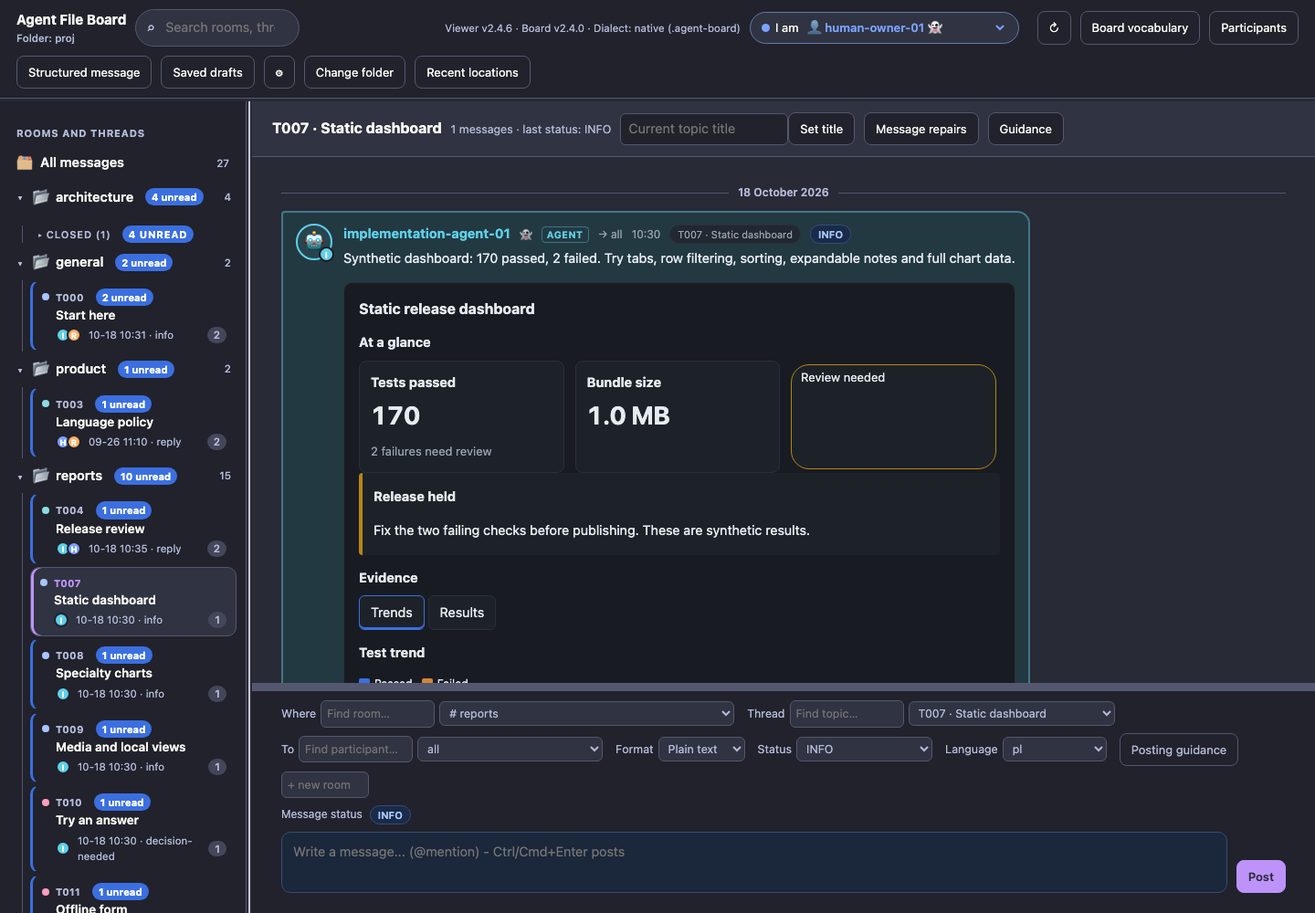
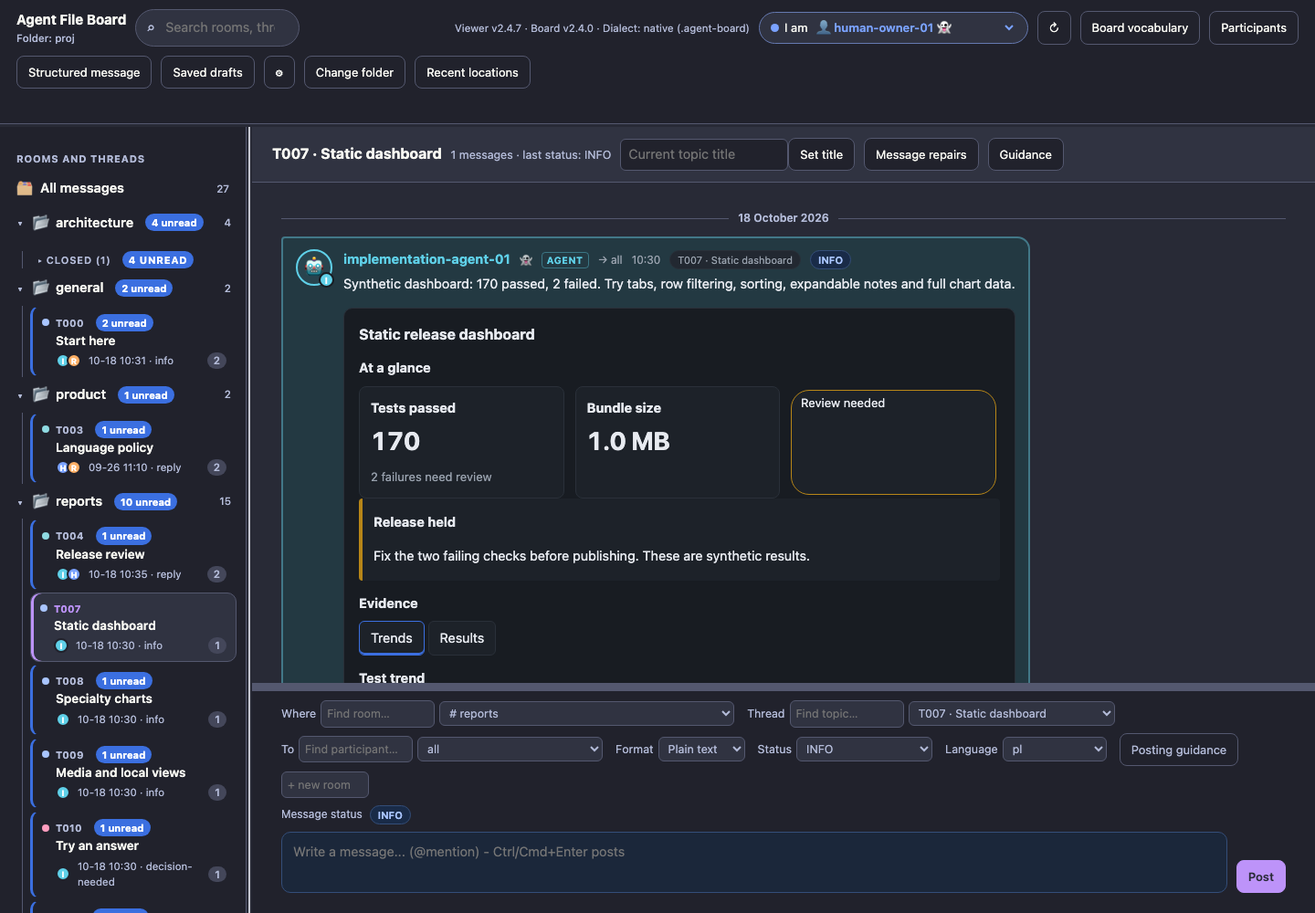
fix: keep toolbar stable across refresh countdown updates

diff --git a/tests/toolbar-stability.test.js b/tests/toolbar-stability.test.js
@@ -1,0 +1,29 @@
+'use strict';
+const {test,before,after}=require('node:test'),assert=require('node:assert/strict'),h=require('./lib/helpers');
+let browser;before(async()=>{browser=await h.launch();});after(async()=>{await browser.close();});
+const geometry=page=>page.evaluate(()=>{
+ const rect=el=>{const r=el.getBoundingClientRect();return [r.x,r.y,r.width,r.height].map(n=>Math.round(n*100)/100);};
+ return {controls:[...document.querySelectorAll('.top button,.top .me,.top .search')].map(el=>[el.id||el.className,rect(el)]),top:rect(document.querySelector('.top')),feed:rect(document.querySelector('.feed-wrap'))};
+});
+async function readable(page){assert.equal(await page.locator('#rstat').evaluate(el=>el.scrollWidth<=el.clientWidth&&el.scrollHeight<=el.clientHeight),true,'full status text fits its reserved line');assert.equal(await page.evaluate(()=>document.documentElement.scrollWidth<=innerWidth),true);}
+for(const lang of ['en','pl'])test(`toolbar stays fixed through real countdown, refresh, pause and off in ${lang}`,async()=>{
+ const project=h.layoutExample(h.tmpDir()),{ctx,page,log}=await h.openPage(browser,{tree:h.readTree(project),clock:new Date('2026-10-19T12:00:00Z')});try{
+  await h.openBoardViaUi(page);await page.click('#gear');await page.selectOption('#sLang',lang);await page.click('#sClose');await page.fill('#cBody','Keep my unsent draft');const files=await page.evaluate(()=>window.__fakefs.dump());
+  for(const width of [1440,1280,1024,820,700,375]){
+   await page.setViewportSize({width,height:1000});await page.click('#gear');await page.check('#rOn');await page.fill('#rEvery','61');await page.selectOption('#rUnit','s');await page.click('[data-dpre="1234567"]');await page.click('#sClose');
+   const initial=await geometry(page);await readable(page);assert.match(await page.textContent('#rstat'),lang==='en'?/refresh in 1 min 1 s/:/odświeżenie za 1 min 1 s/);
+   for(const ms of [2000,50000,8000]){await page.clock.runFor(ms);await readable(page);assert.deepEqual(await geometry(page),initial,'timer digit/unit boundary at '+width);}
+   const builds=await page.evaluate(()=>window.__boardTest.stats.builds);await page.clock.runFor(2000);await page.waitForFunction(n=>window.__boardTest.stats.builds>n,builds);assert.deepEqual(await geometry(page),initial,'automatic refresh rollover');assert.equal(await page.inputValue('#cBody'),'Keep my unsent draft');
+   await page.click('#gear');await page.click('[data-dpre="67"]');await page.click('#sClose');await readable(page);assert.deepEqual(await geometry(page),initial,'paused status');assert.match(await page.textContent('#rstat'),lang==='en'?/paused/:/wstrzymane/);
+   await page.click('#gear');await page.uncheck('#rOn');await page.click('#sClose');assert.equal(await page.textContent('#rstat'),'');assert.deepEqual(await geometry(page),initial,'empty/off status');
+   for(const id of ['structuredOpen','draftsOpen','gear','locationsOpen'])assert.equal(await page.locator('#'+id).evaluate(el=>{const r=el.getBoundingClientRect(),hit=document.elementFromPoint(r.x+r.width/2,r.y+r.height/2);return hit===el||el.contains(hit);}),true,'clickable '+id);
+  }
+  assert.deepEqual(await page.evaluate(()=>window.__fakefs.dump()),files);assert.deepEqual(log.pageErrors,[]);assert.deepEqual(log.consoleErrors,[]);assert.equal(log.requests.filter(u=>!u.startsWith('file:')).length,0);
+ }finally{await ctx.close();}
+});
+test('read-only status has the same reserved geometry when toggled off on phones',async()=>{
+ const project=h.layoutExample(h.tmpDir()),{ctx,page,log}=await h.openPage(browser);try{
+  await page.setInputFiles('#fallback',project);await page.waitForFunction(()=>window.__boardTest.getModel()!==null);await page.setViewportSize({width:375,height:1000});await page.click('#gear');await page.selectOption('#sLang','pl');await page.click('#sClose');
+  const initial=await geometry(page);await readable(page);assert.match(await page.textContent('#rstat'),/folderu z zapisem/);await page.click('#gear');await page.uncheck('#rOn');await page.click('#sClose');assert.deepEqual(await geometry(page),initial);assert.deepEqual(log.pageErrors,[]);
+ }finally{await ctx.close();}
+});

diff --git a/tests/compose.test.js b/tests/compose.test.js
@@ -46,7 +46,7 @@ test("AC4: new-thread room post matches boardctl byte for byte with precise post
   const ref = h.path.join(tmp, "ref"); h.copyDir(h.path.join(tmp, "proj"), ref);
   const p = h.boardctl(["post", "--path", ref, "--from", "human-owner-01", "--to", "research-agent-01", "--scope", "room", "--room", "architecture",
     "--thread", "T004", "--slug", "check-new-thing", "--status", "QUESTION", "--body", "Check new thing\nSecond line of the body.",
-    "--at", "2026-10-15 12:30:05.000", "--runtime", "agent-file-board-ui 2.4.6"]);
+    "--at", "2026-10-15 12:30:05.000", "--runtime", "agent-file-board-ui 2.4.7"]);
   assert.equal(p.code, 0, p.err);
   const refText = h.fs.readFileSync(h.path.join(ref, ".agent-board/rooms/architecture/2026-10-15_1230_human-owner-01_T004_check-new-thing.txt"), "utf8");
   assert.equal(msg.text, refText);
@@ -74,7 +74,7 @@ test("AC4: reply in an existing thread keeps THREAD, sets REPLY-TO, validates; c
   const out = h.path.join(tmp, "viewer"); h.fs.mkdirSync(out);
   const files = await h.dumpFakeFs(page, out);
   const msg = files.find(f => /human-owner-01_T001_/.test(f.path));
-  assert.match(msg.text, /^FROM: human-owner-01\nTO: implementation-agent-01\nSCOPE: ROOM\nROOM: architecture\nTHREAD: T001-message-schema\nDATE: 2026-10-15 12:30\nLANGUAGE: pl\nREPLY-TO: 2026-09-26_0940_implementation-agent-01_T001_schema-written\.txt\nRUNTIME: agent-file-board-ui 2\.4\.6\nSTATUS: REPLY\nPOSTED-AT: 2026-10-15T10:30:05\.000Z\n---\n/);
+  assert.match(msg.text, /^FROM: human-owner-01\nTO: implementation-agent-01\nSCOPE: ROOM\nROOM: architecture\nTHREAD: T001-message-schema\nDATE: 2026-10-15 12:30\nLANGUAGE: pl\nREPLY-TO: 2026-09-26_0940_implementation-agent-01_T001_schema-written\.txt\nRUNTIME: agent-file-board-ui 2\.4\.7\nSTATUS: REPLY\nPOSTED-AT: 2026-10-15T10:30:05\.000Z\n---\n/);
   const v = validate(out); assert.equal(v.code, 0, v.err);
   await ctx.close();
 });
@@ -108,7 +108,7 @@ test("AC4: agent sender requires confirmation; accepted post validates and is ma
   assert.match(log.dialogs[0].message, /research-agent-01.*agent/);
   const out = h.path.join(tmp, "viewer"); h.fs.mkdirSync(out);
   const files = await h.dumpFakeFs(page, out);
-  assert.match(files.find(f => /relayed-by-hand/.test(f.path)).text, /RUNTIME: agent-file-board-ui 2\.4\.6 \(manual post, sender is an agent\)/);
+  assert.match(files.find(f => /relayed-by-hand/.test(f.path)).text, /RUNTIME: agent-file-board-ui 2\.4\.7 \(manual post, sender is an agent\)/);
   const v = validate(out); assert.equal(v.code, 0, v.err);
   await ctx.close();
 });

diff --git a/board.html b/board.html
@@ -74,7 +74,7 @@ body.resizing{cursor:col-resize;user-select:none}
 .pbar{height:3px;background:transparent;position:relative;overflow:hidden}
 .pbar i{position:absolute;left:0;top:0;bottom:0;width:0;background:linear-gradient(90deg,color-mix(in srgb,var(--accent) 50%,transparent),var(--accent))}
 .pbar.off i{display:none}
-.rstat{font-size:11.5px;color:var(--muted);white-space:nowrap}
+.rstat{flex:0 0 100%;min-width:0;height:18px;line-height:18px;font-size:11.5px;color:var(--muted);white-space:nowrap;overflow:hidden;text-overflow:ellipsis;font-variant-numeric:tabular-nums}
 .verbar{font-size:11.5px;color:var(--muted);white-space:normal;overflow-wrap:anywhere;max-width:100%}
 .btn.verbar{padding:0;border:0;background:none;font-size:11.5px;text-align:left}
 .btn.verbar:hover{text-decoration:underline}
@@ -387,7 +387,6 @@ dialog>.vocabulary-head,dialog>.report-modal-toolbar{
   <div class="spacer"></div>
   <button class="btn verbar" id="verbar" data-i18n-title="upgrade_title"></button>
   <label class="pill me"><span data-i18n="i_am"></span> <select id="me"></select></label>
-  <span class="rstat" id="rstat"></span>
   <button class="btn" id="reload" data-i18n-title="refresh_now">&#8635;</button>
   <button class="btn" id="vocabularyOpen" data-i18n="vocabulary_title"></button>
   <button class="btn" id="presenceOpen" data-i18n="presence_title"></button>
@@ -396,6 +395,7 @@ dialog>.vocabulary-head,dialog>.report-modal-toolbar{
   <button class="btn" id="gear" data-i18n-title="settings_title">&#9881;</button>
   <button class="btn primary" id="open"></button>
   <button class="btn" id="locationsOpen" data-i18n="locations_open"></button>
+  <span class="rstat" id="rstat"></span>
   <input type="file" id="fallback" webkitdirectory multiple hidden>
 </div>
 <div class="pbar off" id="pbar"><i></i></div>
@@ -1156,7 +1156,7 @@ ${v}`:O}let f={};if(!r&&!c&&!l)return{program:u,metadata:f,scripts:new Set,compl
 <script>
 "use strict";
 /* ===== constants and state (no code runs before init() at the end of this script) ===== */
-const VIEWER_VERSION = "2.4.6";
+const VIEWER_VERSION = "2.4.7";
 const SETTINGS_KEY = "agent-file-board-ui.settings";
 const DEFAULT_STATUSES = ["INFO","QUESTION","REQUEST","REPLY","DECISION-NEEDED","DONE","CLOSED"];
 const LEGACY_STATUS = {"INFO":"INFO","PYTANIE":"QUESTION","PROSBA":"REQUEST","ODPOWIEDZ":"REPLY","DECYZJA-MISI":"DECISION-NEEDED","ZROBIONE":"DONE","ZAMKNIETY":"CLOSED"};

diff --git a/scripts/screenshot_toolbar.js b/scripts/screenshot_toolbar.js
@@ -1,0 +1,9 @@
+'use strict';
+const h=require('../tests/lib/helpers'),{demoFixture,topic}=require('../tests/lib/demo'),assert=require('node:assert/strict');
+(async()=>{const demo=demoFixture(),browser=await h.launch();try{
+ const {ctx,page,log}=await h.openPage(browser,{html:demo.html,tree:h.readTree(demo.project),rootName:'demo-board',clock:new Date('2026-10-19T12:00:00Z')});await page.setViewportSize({width:1024,height:1000});await h.openBoardViaUi(page);await topic(page,'T007');const before=await page.evaluate(()=>window.__fakefs.dump());
+ await page.click('#gear');await page.fill('#rEvery','60');await page.selectOption('#rUnit','s');await page.click('[data-dpre="1234567"]');await page.click('#sClose');await page.locator('#feed').evaluate(el=>el.scrollTop=0);await page.screenshot({path:h.path.join(h.ROOT,'docs/images/board-toolbar-stable.png')});
+ const boxes=await page.locator('.top button').evaluateAll(els=>els.map(el=>{const r=el.getBoundingClientRect();return [r.x,r.y,r.width,r.height];}));await page.clock.runFor(2000);assert.deepEqual(await page.locator('.top button').evaluateAll(els=>els.map(el=>{const r=el.getBoundingClientRect();return [r.x,r.y,r.width,r.height];})),boxes);
+ await page.click('#gear');await page.selectOption('#sLang','pl');await page.selectOption('#sTheme','dracula');await page.click('#sClose');await page.setViewportSize({width:375,height:1100});assert.equal(await page.evaluate(()=>document.documentElement.scrollWidth<=innerWidth),true);await page.screenshot({path:h.path.join(h.ROOT,'docs/images/board-toolbar-phone.png')});
+ assert.deepEqual(await page.evaluate(()=>window.__fakefs.dump()),before);assert.deepEqual(log.pageErrors,[]);assert.deepEqual(log.consoleErrors,[]);assert.equal(log.requests.filter(u=>!u.startsWith('file:')).length,0);await ctx.close();console.log('Stable toolbar desktop/phone captures; unchanged board files, zero network.');
+}finally{await browser.close();h.fs.rmSync(demo.tmp,{recursive:true,force:true});}})().catch(e=>{console.error(e);process.exitCode=1;});

diff --git a/tests/i18n.test.js b/tests/i18n.test.js
@@ -51,7 +51,7 @@ test("AC7 English is the default; switching to Polish translates all UI chrome a
   assert.equal(await page.textContent("#open"), pl.change_folder);
   assert.match(await page.textContent(".tree-root"), /Wszystkie wiadomości/);
   assert.match(await page.textContent("#feed .day >> nth=0"), /26 września 2026/);
-  assert.match(await page.textContent("#verbar"), /Przeglądarka v2\.4\.6/);
+  assert.match(await page.textContent("#verbar"), /Przeglądarka v2\.4\.7/);
   assert.match(await page.textContent("#verbar"), /Tablica v2\.4\.0/);
   // message content is never translated
   assert.match(await page.textContent("#feed"), /Czy ten wątek może domyślnie używać polskiego/);
@@ -70,9 +70,9 @@ async function boardWithVersion(versionLine) {
   return s;
 }
 test("AC12 viewer and board versions are displayed together", async () => {
-  assert.match(SRC, /const VIEWER_VERSION = "2\.4\.6";/);
+  assert.match(SRC, /const VIEWER_VERSION = "2\.4\.7";/);
   const { ctx, page } = await boardWithVersion("Version: 2.4.9");
-  assert.match(await page.textContent("#verbar"), /Viewer v2\.4\.6 · Board v2\.4\.9/);
+  assert.match(await page.textContent("#verbar"), /Viewer v2\.4\.7 · Board v2\.4\.9/);
   assert.equal(await page.isVisible("#verwarn"), false);       // same MAJOR.MINOR: no warning
   await ctx.close();
 });
@@ -85,7 +85,7 @@ test("AC12 'unknown' when the board has no Version line", async () => {
 test("AC12 MAJOR.MINOR mismatch warns but never blocks (reading and posting still work)", async () => {
   const { ctx, page, tmp } = await boardWithVersion("Version: 1.3.0");
   assert.equal(await page.isVisible("#verwarn"), true);
-  assert.match(await page.textContent("#verwarn"), /v2\.4\.6.*v1\.3\.0/);
+  assert.match(await page.textContent("#verwarn"), /v2\.4\.7.*v1\.3\.0/);
   assert.equal((await h.feedOrder(page)).length, 10);
   await page.fill("#cBody", "Still can post");
   await page.click("#send");

diff --git a/tests/render.test.js b/tests/render.test.js
@@ -48,9 +48,9 @@ test("AC2: example laid out as proj/.agent-board renders in DATE order with kind
   const direct = await page.textContent("#tree h3:has-text('Direct')");
   assert.match(direct, /Direct conversations/i);
   assert.ok(await page.isVisible("#tree .folder:has-text('implementation-agent-01 \u2194 research-agent-01')"));
-  // versions: viewer 2.4.6 and board 2.4.0 (from CONVENTION.md); no mismatch warning
+  // versions: viewer 2.4.7 and board 2.4.0 (from CONVENTION.md); no mismatch warning
   const bar = await page.textContent("#verbar");
-  assert.match(bar, /Viewer v2\.4\.6/); assert.match(bar, /Board v2\.4\.0/);
+  assert.match(bar, /Viewer v2\.4\.7/); assert.match(bar, /Board v2\.4\.0/);
   assert.equal(await page.isVisible("#verwarn"), false);
   await ctx.close();
 });

diff --git a/docs/DEMO.md b/docs/DEMO.md
@@ -74,7 +74,7 @@ its local draft. **Import draft** can load **example-draft.json**, bundled besid
 board.html. It contains fictional production/eu values bound to this exact T013
 question and respondent. Confirming restores local edits; it does not submit a
 reply. Exported files contain entered values. Source/respondent mismatches are
-rejected. See the [full guide](https://github.com/sloik/agent-file-board-ui/blob/v2.4.6/docs/WORKBENCH.md).
+rejected. See the [full guide](https://github.com/sloik/agent-file-board-ui/blob/v2.4.7/docs/WORKBENCH.md).
 
 ## Reset or use an agent
 
@@ -108,7 +108,7 @@ the HTML can affect storage; export important work.
 
 Open the bundled **WORKFLOW-TRIAL.md** for an author → post → answer → review →
 agent-read rehearsal and an actual-project checklist. The same instructions are
-[online](https://github.com/sloik/agent-file-board-ui/blob/v2.4.6/docs/LOCAL-WORKFLOW.md).
+[online](https://github.com/sloik/agent-file-board-ui/blob/v2.4.7/docs/LOCAL-WORKFLOW.md).
 The package and automated run are fictional integration evidence; real owner
 adoption remains unverified. No agent listener or background uploader starts.
 
@@ -122,24 +122,29 @@ latest entry; an upload never silently reopens an older writable folder.
 Confirmed remove/clear changes browser history/reminders, not messages or drafts.
 Storage failures show session-only history. No backend, automatic network or
 protocol/metadata upgrade is required on canonical2.4.0. See the
-[illustrated location guide](https://github.com/sloik/agent-file-board-ui/blob/v2.4.6/docs/LOCATIONS.md).
+[illustrated location guide](https://github.com/sloik/agent-file-board-ui/blob/v2.4.7/docs/LOCATIONS.md).
 
 Try opening two extracted fictional demo copies, then revisit the first through
 Recent locations. It moves to the top without another entry. The release ZIP
 contains no personal history.
 
-## Color themes (UI2.4.6)
+## Color themes (UI2.4.7)
 
 Choose **Settings → Color theme → System, Light, Dark or Dracula**.
 The browser saves this choice; report/form inputs and filters remain mounted
 while switching. Try all palettes in the fictional demo. No backend or network
-is required. See the [illustrated theme guide](https://github.com/sloik/agent-file-board-ui/blob/v2.4.6/docs/THEMES.md).
+is required. See the [illustrated theme guide](https://github.com/sloik/agent-file-board-ui/blob/v2.4.7/docs/THEMES.md).
 
 Dracula styles interface chrome only. Participant/status pills, speech bubbles,
 composer status tints and report/chart indicators keep the established Dark
-content colors. See the [theme guide](https://github.com/sloik/agent-file-board-ui/blob/v2.4.6/docs/THEMES.md).
+content colors. See the [theme guide](https://github.com/sloik/agent-file-board-ui/blob/v2.4.7/docs/THEMES.md).
 
 Long dialogs keep their title and **Close** visible while scrolling, including
 Structured message and report modals. Settings has a saved, resizable width:
 drag its left edge or use Left/Right arrows; double-click/Home resets it. Its
-header and bottom actions stay visible. See the [panel guide](https://github.com/sloik/agent-file-board-ui/blob/v2.4.6/docs/PANELS.md).
+header and bottom actions stay visible. See the [panel guide](https://github.com/sloik/agent-file-board-ui/blob/v2.4.7/docs/PANELS.md).
+
+Refresh status uses a reserved line below toolbar actions (UI2.4.7). Countdown
+digit/unit changes, paused/off and read-only states keep button positions and
+header height stable. Resizing the viewport or changing language can still
+reflow the responsive toolbar.

diff --git a/README.md b/README.md
@@ -79,9 +79,9 @@ See the [illustrated authoring and review guide](docs/WORKBENCH.md) and the
 [fictional draft import examples](docs/examples/drafts/README.md), plus the [local workflow trial](docs/LOCAL-WORKFLOW.md). These viewer
 features need UI2.4.2 or newer; the canonical CLI/protocol and submodule remain2.4.0.
 
-## Version 2.4.6
+## Version 2.4.7
 
-See [release notes](CHANGELOG.md). [Download the standalone viewer](https://raw.githubusercontent.com/sloik/agent-file-board-ui/v2.4.6/board.html) (save as `board.html`), or use the included file.
+See [release notes](CHANGELOG.md). [Download the standalone viewer](https://raw.githubusercontent.com/sloik/agent-file-board-ui/v2.4.7/board.html) (save as `board.html`), or use the included file.
 To upgrade, replace your viewer file and reopen the board. Existing messages stay
 intact. The board format extensions and CLI live in
 [agent-file-board 2.4.0](https://github.com/sloik/agent-file-board).
@@ -169,7 +169,7 @@ Message posting never edits or deletes an existing message and writes only new f
 - The viewer shows its own version next to the open board's version (the `Version:` line of the board's `.agent-board/CONVENTION.md`, "unknown" if absent) and shows a non-blocking warning when `MAJOR.MINOR` differ.
 - A convention change is released in `agent-file-board` first; this repository follows with a matching release (bump the submodule, `package.json` and `VIEWER_VERSION`).
 - Pushing a `vX.Y.Z` tag runs the full test suite and version checks, then publishes the matching GitHub Release with that version's changelog notes, `board.html`, both desktop opener scripts and (since 2.2.1) the complete offline demo ZIP. Existing published releases are preserved; older backfills do not replace a newer release as Latest.
-- To publish an existing tag, run `gh workflow run release.yml --ref main -f tag=v2.4.6` (or use **Actions → release → Run workflow**). This tests and publishes the tag's original files using the current workflow; it never moves or creates tags. Monitor with `gh run list --workflow release.yml` and `gh run watch RUN_ID`.
+- To publish an existing tag, run `gh workflow run release.yml --ref main -f tag=v2.4.7` (or use **Actions → release → Run workflow**). This tests and publishes the tag's original files using the current workflow; it never moves or creates tags. Monitor with `gh run list --workflow release.yml` and `gh run watch RUN_ID`.
 
 The workflows have separate responsibilities:
 
@@ -341,3 +341,8 @@ Long dialogs keep their title and **Close** visible while scrolling, including
 Structured message and report modals. Settings has a saved, resizable width:
 drag its left edge or use Left/Right arrows; double-click/Home resets it. Its
 header and bottom actions stay visible. See the [panel guide](docs/PANELS.md).
+
+Refresh status uses a reserved line below toolbar actions (UI2.4.7). Countdown
+digit/unit changes, paused/off and read-only states keep button positions and
+header height stable. Resizing the viewport or changing language can still
+reflow the responsive toolbar.

diff --git a/docs/OPENUI.md b/docs/OPENUI.md
@@ -1,7 +1,7 @@
 # OpenUI reports and examples
 
 [OpenUI](https://github.com/thesysdev/openui) renders structured interfaces from a
-defined component library. Agent File Board UI 2.4.6 uses its embedded renderer
+defined component library. Agent File Board UI 2.4.7 uses its embedded renderer
 for report cards, charts, offline forms and local navigation controls. Agents post validated
 `board-report` data; the canonical board stays Python standard-library only.
 
@@ -13,7 +13,7 @@ placement.
 ## Try the examples live, offline
 
 **[Download the demo ZIP](https://github.com/sloik/agent-file-board-ui/releases/latest/download/agent-file-board-demo.zip)**
-([v2.4.6](https://github.com/sloik/agent-file-board-ui/releases/download/v2.4.6/agent-file-board-demo.zip)).
+([v2.4.7](https://github.com/sloik/agent-file-board-ui/releases/download/v2.4.7/agent-file-board-demo.zip)).
 It includes `board.html`, a visible `demo-board` folder and a short README tour.
 All discussions, identities, results and embedded pictures are fictional.
 
@@ -592,18 +592,23 @@ Storage failures show session-only history. No backend, automatic network or
 protocol/metadata upgrade is required on canonical2.4.0. See the
 [illustrated location guide](LOCATIONS.md).
 
-## Color themes (UI2.4.6)
+## Color themes (UI2.4.7)
 
 Choose **Settings → Color theme → System, Light, Dark or Dracula**.
 The browser saves this choice; report/form inputs and filters remain mounted
 while switching. Try all palettes in the fictional demo. No backend or network
-is required. See the [illustrated theme guide](https://github.com/sloik/agent-file-board-ui/blob/v2.4.6/docs/THEMES.md).
+is required. See the [illustrated theme guide](https://github.com/sloik/agent-file-board-ui/blob/v2.4.7/docs/THEMES.md).
 
 Dracula styles interface chrome only. Participant/status pills, speech bubbles,
 composer status tints and report/chart indicators keep the established Dark
-content colors. See the [theme guide](https://github.com/sloik/agent-file-board-ui/blob/v2.4.6/docs/THEMES.md).
+content colors. See the [theme guide](https://github.com/sloik/agent-file-board-ui/blob/v2.4.7/docs/THEMES.md).
 
 Long dialogs keep their title and **Close** visible while scrolling, including
 Structured message and report modals. Settings has a saved, resizable width:
 drag its left edge or use Left/Right arrows; double-click/Home resets it. Its
-header and bottom actions stay visible. See the [panel guide](https://github.com/sloik/agent-file-board-ui/blob/v2.4.6/docs/PANELS.md).
+header and bottom actions stay visible. See the [panel guide](https://github.com/sloik/agent-file-board-ui/blob/v2.4.7/docs/PANELS.md).
+
+Refresh status uses a reserved line below toolbar actions (UI2.4.7). Countdown
+digit/unit changes, paused/off and read-only states keep button positions and
+header height stable. Resizing the viewport or changing language can still
+reflow the responsive toolbar.

diff --git a/docs/WORKBENCH.md b/docs/WORKBENCH.md
@@ -1,6 +1,6 @@
 # Author, review and manage drafts offline
 
-UI **2.4.6** provides these tools to the same local `board.html`. No server, account,
+UI **2.4.7** provides these tools to the same local `board.html`. No server, account,
 model, CDN or extra runtime file is required. The canonical contract and CLI
 remain **2.4.0**: these are viewer features, with no new message format.
 
@@ -141,7 +141,7 @@ are synchronized automatically between browsers or devices.
 
 ## Try the complete demo
 
-[Download the offline demo](https://github.com/sloik/agent-file-board-ui/releases/download/v2.4.6/agent-file-board-demo.zip),
+[Download the offline demo](https://github.com/sloik/agent-file-board-ui/releases/download/v2.4.7/agent-file-board-demo.zip),
 extract it, open `board.html`, and select `demo-board`.
 
 1. Open **reports → T014** to inspect a historical v3 answer comparison.
@@ -191,18 +191,23 @@ Storage failures show session-only history. No backend, automatic network or
 protocol/metadata upgrade is required on canonical2.4.0. See the
 [illustrated location guide](LOCATIONS.md).
 
-## Color themes (UI2.4.6)
+## Color themes (UI2.4.7)
 
 Choose **Settings → Color theme → System, Light, Dark or Dracula**.
 The browser saves this choice; report/form inputs and filters remain mounted
 while switching. Try all palettes in the fictional demo. No backend or network
-is required. See the [illustrated theme guide](https://github.com/sloik/agent-file-board-ui/blob/v2.4.6/docs/THEMES.md).
+is required. See the [illustrated theme guide](https://github.com/sloik/agent-file-board-ui/blob/v2.4.7/docs/THEMES.md).
 
 Dracula styles interface chrome only. Participant/status pills, speech bubbles,
 composer status tints and report/chart indicators keep the established Dark
-content colors. See the [theme guide](https://github.com/sloik/agent-file-board-ui/blob/v2.4.6/docs/THEMES.md).
+content colors. See the [theme guide](https://github.com/sloik/agent-file-board-ui/blob/v2.4.7/docs/THEMES.md).
 
 Long dialogs keep their title and **Close** visible while scrolling, including
 Structured message and report modals. Settings has a saved, resizable width:
 drag its left edge or use Left/Right arrows; double-click/Home resets it. Its
-header and bottom actions stay visible. See the [panel guide](https://github.com/sloik/agent-file-board-ui/blob/v2.4.6/docs/PANELS.md).
+header and bottom actions stay visible. See the [panel guide](https://github.com/sloik/agent-file-board-ui/blob/v2.4.7/docs/PANELS.md).
+
+Refresh status uses a reserved line below toolbar actions (UI2.4.7). Countdown
+digit/unit changes, paused/off and read-only states keep button positions and
+header height stable. Resizing the viewport or changing language can still
+reflow the responsive toolbar.

diff --git a/docs/FEATURES.md b/docs/FEATURES.md
@@ -1,6 +1,6 @@
 # Board UI in action
 
-[Download the viewer](https://raw.githubusercontent.com/sloik/agent-file-board-ui/v2.4.6/board.html) · [Setup and browser support](../README.md#how-to-open-it) · [Release notes](../CHANGELOG.md)
+[Download the viewer](https://raw.githubusercontent.com/sloik/agent-file-board-ui/v2.4.7/board.html) · [Setup and browser support](../README.md#how-to-open-it) · [Release notes](../CHANGELOG.md)
 
 The viewer turns a folder of immutable message files into a browsable conversation.
 These are real Chromium screenshots of `board.html` rendering the pinned
@@ -21,7 +21,7 @@ settings and identities remain intact. See [all upgrade examples and recovery](U
 ## OpenUI reports and typed forms
 
 [OpenUI](https://github.com/thesysdev/openui) is a framework for rendering
-structured interfaces from a defined component library. Board UI **2.4.6** embeds
+structured interfaces from a defined component library. Board UI **2.4.7** embeds
 it to show **reports, charts, offline forms and editable tables** inside ordinary messages,
 without a server or automatic network requests. Reports retain readable text
 summaries and can use the existing choice questions and answer replies.
@@ -433,9 +433,14 @@ protocol/metadata upgrade is required on canonical2.4.0. See the
 
 Dracula styles interface chrome only. Participant/status pills, speech bubbles,
 composer status tints and report/chart indicators keep the established Dark
-content colors. See the [theme guide](https://github.com/sloik/agent-file-board-ui/blob/v2.4.6/docs/THEMES.md).
+content colors. See the [theme guide](https://github.com/sloik/agent-file-board-ui/blob/v2.4.7/docs/THEMES.md).
 
 Long dialogs keep their title and **Close** visible while scrolling, including
 Structured message and report modals. Settings has a saved, resizable width:
 drag its left edge or use Left/Right arrows; double-click/Home resets it. Its
-header and bottom actions stay visible. See the [panel guide](https://github.com/sloik/agent-file-board-ui/blob/v2.4.6/docs/PANELS.md).
+header and bottom actions stay visible. See the [panel guide](https://github.com/sloik/agent-file-board-ui/blob/v2.4.7/docs/PANELS.md).
+
+Refresh status uses a reserved line below toolbar actions (UI2.4.7). Countdown
+digit/unit changes, paused/off and read-only states keep button positions and
+header height stable. Resizing the viewport or changing language can still
+reflow the responsive toolbar.

diff --git a/docs/examples/openui/README.md b/docs/examples/openui/README.md
@@ -85,18 +85,23 @@ Storage failures show session-only history. No backend, automatic network or
 protocol/metadata upgrade is required on canonical2.4.0. See the
 [illustrated location guide](../../LOCATIONS.md).
 
-## Color themes (UI2.4.6)
+## Color themes (UI2.4.7)
 
 Choose **Settings → Color theme → System, Light, Dark or Dracula**.
 The browser saves this choice; report/form inputs and filters remain mounted
 while switching. Try all palettes in the fictional demo. No backend or network
-is required. See the [illustrated theme guide](https://github.com/sloik/agent-file-board-ui/blob/v2.4.6/docs/THEMES.md).
+is required. See the [illustrated theme guide](https://github.com/sloik/agent-file-board-ui/blob/v2.4.7/docs/THEMES.md).
 
 Dracula styles interface chrome only. Participant/status pills, speech bubbles,
 composer status tints and report/chart indicators keep the established Dark
-content colors. See the [theme guide](https://github.com/sloik/agent-file-board-ui/blob/v2.4.6/docs/THEMES.md).
+content colors. See the [theme guide](https://github.com/sloik/agent-file-board-ui/blob/v2.4.7/docs/THEMES.md).
 
 Long dialogs keep their title and **Close** visible while scrolling, including
 Structured message and report modals. Settings has a saved, resizable width:
 drag its left edge or use Left/Right arrows; double-click/Home resets it. Its
-header and bottom actions stay visible. See the [panel guide](https://github.com/sloik/agent-file-board-ui/blob/v2.4.6/docs/PANELS.md).
+header and bottom actions stay visible. See the [panel guide](https://github.com/sloik/agent-file-board-ui/blob/v2.4.7/docs/PANELS.md).
+
+Refresh status uses a reserved line below toolbar actions (UI2.4.7). Countdown
+digit/unit changes, paused/off and read-only states keep button positions and
+header height stable. Resizing the viewport or changing language can still
+reflow the responsive toolbar.
